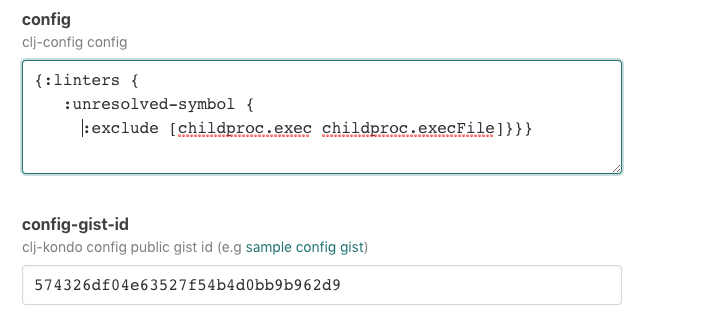
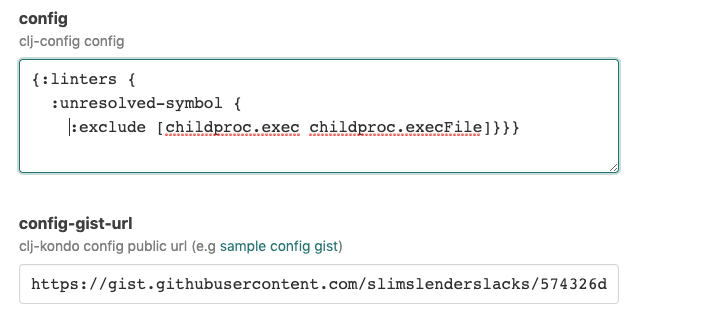
README update

diff --git a/README.md b/README.md
@@ -25,14 +25,13 @@ At least one repository must be selected.
 
     ![check-name](docs/images/check-name.png)
     
-2.  **Choose a clj-kondo configuration**
+2.  **Choose a custom clj-kondo configuration**
 
-    Optionally, customize the configuration that `clj-kondo` will use by adding a config here. 
-
-    The [clj-kondo configuration documentation][configuration] outlines different ways to control how the code
-    is formatted.  To encourage sharing, you can also reference a public gist that contains a great
-    clj-kondo config that matches your needs.  Instead of adding the config `edn` document here, 
-    users can just reference a public url (e.g. a gist [url like this][gist-url]).
+    This [clj-kondo configuration][configuration] can be shared across multiple Repositories.  
+    To encourage sharing configs, users can also reference a public url (e.g. a gist url is a great
+    way to share configurations).  To share a public configuration, leave the config form element blank 
+    and reference a url.  Here is an example of public gist containing a 
+    [sample config.edn](https://gist.githubusercontent.com/slimslenderslacks/574326df04e63527f54b4d0bb9b962d9/raw/8e0e3e6a691c434a63b661ae3869dd181c4fbb89/config.edn).
     
     ![config](docs/images/config.png)
                         
@@ -56,11 +55,12 @@ At least one repository must be selected.
 1. **See clj-kondo results in your GitHub CheckRun statuses!**
 
 There are already great ways to integrate [clj-kondo][clj-kondo] into your local development flow.  See the docs on
-[editor integration here][editor-integration].  However, this skill pulls this data into your release flow and allows
-you to build new ways of deciding whether code should be released.
+[editor integration here][editor-integration].  Perhaps you are already making commits free from linting errors or warnings.
+If so, this skill will produce a GitHub CheckRun confirming this.  If not, 
+the data may encourage users to consider adding this clj-kondo feedback in to their development flow.  In both cases, this
+data is now available to downstream automation.
 
-To create feature requests or bug reports, create an [issue in the repository for this skill](htt
-ps://github.com/atomist-skills/clj-kondo-skill/issues). 
+To create feature requests or bug reports, create an [issue in the repository for this skill](https://github.com/atomist-skills/clj-kondo-skill/issues). 
 See the [code](https://github.com/atomist-skills/clj-kondo-skill) for the skill.
 
 [clj-kondo]: https://github.com/borkdude/clj-kondo
